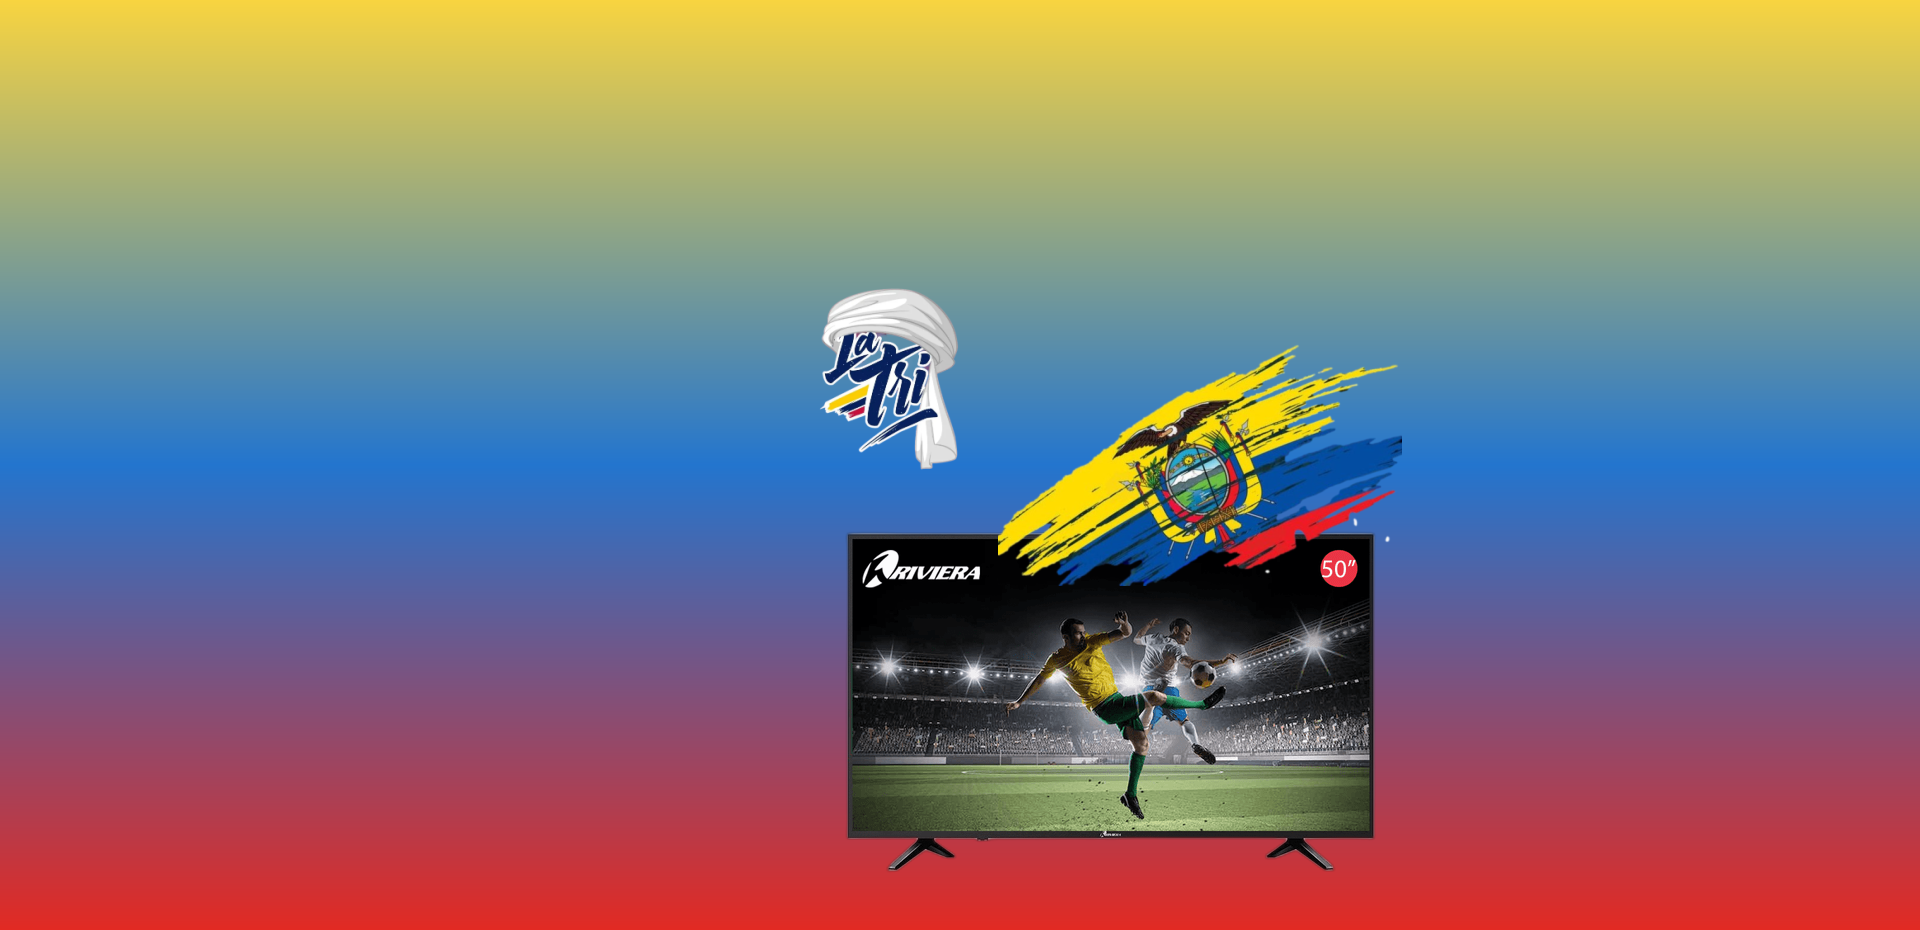
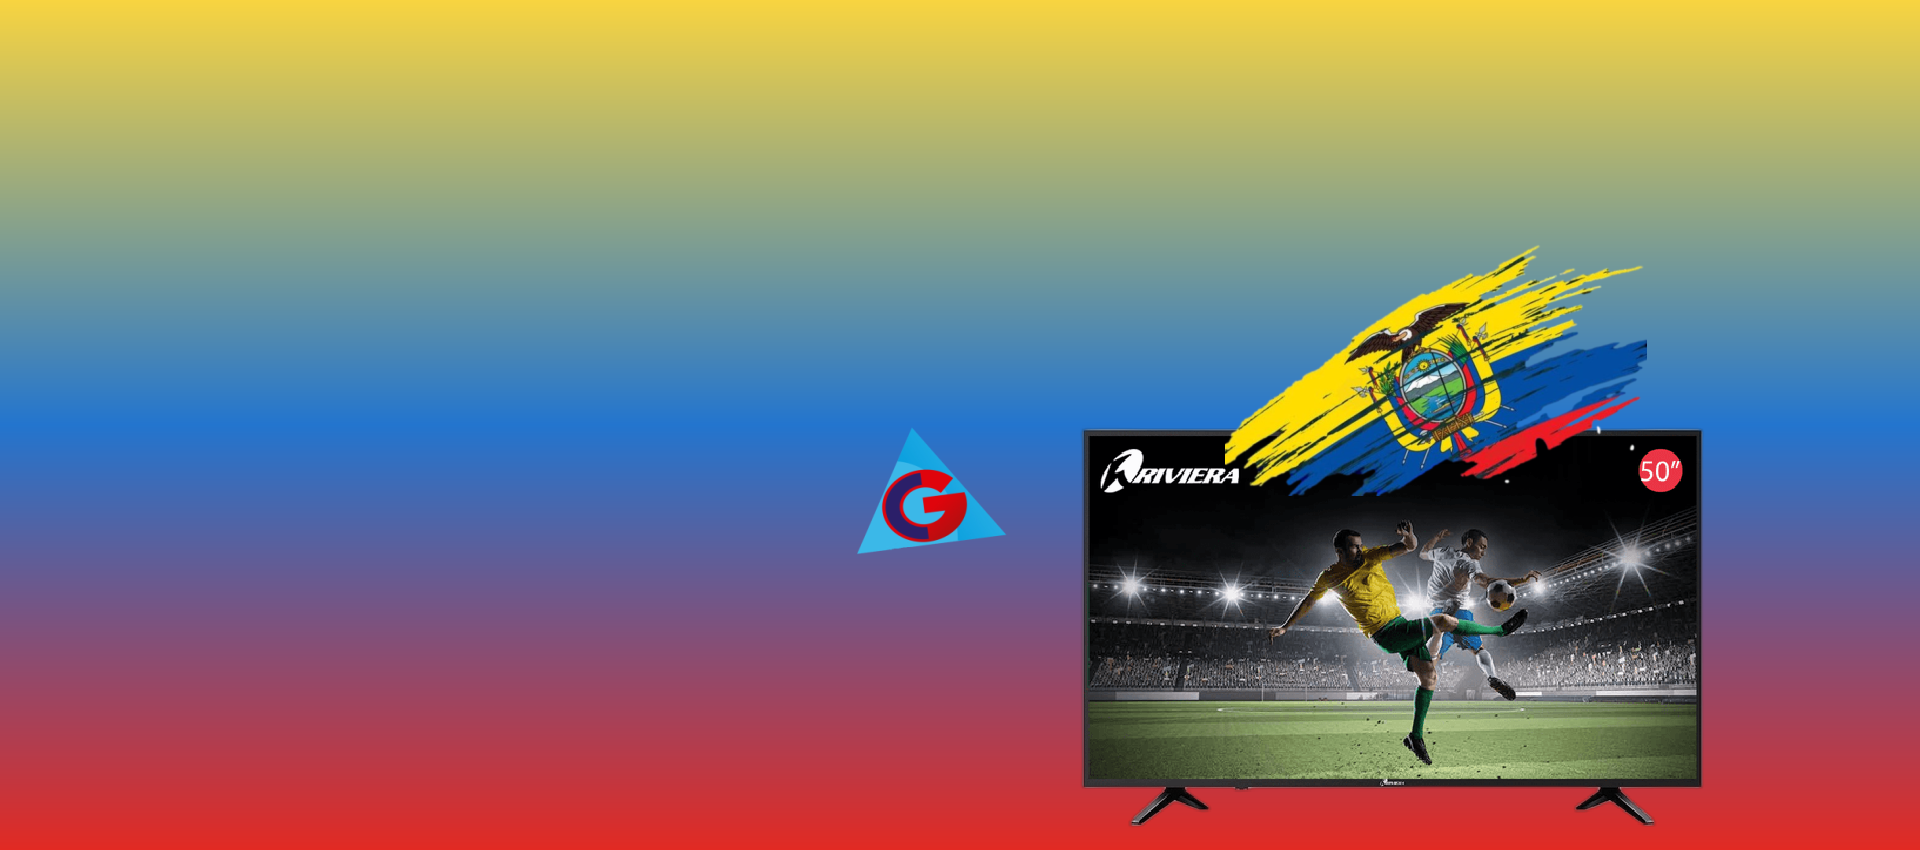
areglar img hacer grnades 1024

Changed region(s): [[0.4062, 0.2753, 0.9062, 0.9788]]

diff --git a/Assets/ecommerce/css/main.css b/Assets/ecommerce/css/main.css
@@ -269,50 +269,7 @@
 }
 
 /* ///////////////////////////// */
-/*Splide library*/
-
-@media (min-width: 1024px) {
-	.slider-one{
-		background-image: url("http://localhost/carlos/project_cg/Assets/ecommerce/images/slider-one-global.png");
-	}
-
-	.slider-two{
-		background-image: url("http://localhost/carlos/project_cg/Assets/ecommerce/images/slider-two-global.png");
-	}
-
-	.layer-container{
-		display: flex;
-		flex-direction: column;
-		align-items: flex-start;
-		justify-content: center;
-		height: 100%;
-		border: 1px solid green;
-		padding-left: 10%;
-		padding-top: 	5%;
-	}
-}
-
-@media (max-width: 1024px) {
- .slider-one{
-		background-image: url("http://localhost/carlos/project_cg/Assets/ecommerce/images/slider-one1024px.png");
-	}
-
-	.slider-two{
-		background-image: url("http://localhost/carlos/project_cg/Assets/ecommerce/images/slider-two1024px.png");
-	} 
-
-	.layer-container{
-		padding-top: 	25%;	
-		padding-left: 15%;
-	}
-}
-
-.item-splide1 {
-  height: calc(100vh - 0px);
-  background-size: cover;
-  background-repeat: no-repeat;
-  background-position: center center;
-}
+/*Splide library*/	
 
 .splide__arrows{
 	opacity: 0;
@@ -329,41 +286,76 @@
 	opacity: 1;
 }
 
+.item-splide1{
+	position: relative;
+}
+
+.item-splide1 > img{
+	width: 100%;
+}
+
+.layer-container{
+	position: absolute;
+	top: 40%;
+	left: 10%;
+}
+
 .layer-splide1{
-	margin-top: 15px;
+		margin-top: 10px;
 }
 
 
 .text01{
-	font-size: 40px;
 	font-family: 'Permanent Marker', cursive;
 	color: var(--g2);
-	font-weight: 	600;
 }
 
 .text02{
-	font-size: 18px;
+	font-weight: 700;
 	font-family: 'Poppins', sans-serif;
-	font-weight: 500;
 }
 
-@media(max-width: 768px){
-	.layer-container{
-		padding-top: 40%;
+@media (min-width: 1024px){
+	.img-slide-global{
+		display: block;
 	}
-
-
+	.img-slide-small{
+		display: none;
+	}
 
 	.text01{
-		font-size: 20px;
-	}
-
-	.marc-slider{
-		width: 200px;
+		font-size: 38px;
 	}
 
 	.text02{
+		font-size: 18px;
+	}
+}
+
+@media (max-width: 1024px){
+	.img-slide-global{
 		display: none;
+	}
+
+	.img-slide-small{
+		display: block;
+	}
+
+	.text01{
+		font-size: 25px;
+	}
+
+	.text02{
+		font-size: 15px;
+	}
+	
+	.marc-slider {
+	    width: 200px;
+	}
+
+	.layer-container{
+		top: 30%;
+		left: 8%;
 	}
 }
 

diff --git a/Views/index.php b/Views/index.php
@@ -175,6 +175,8 @@
                 <div class="splide__track">
                     <ul class="splide__list">
                         <div class="splide__slide item-splide1 slider-one">
+                            <img class="img-slide-global" src="<?= media(); ?>ecommerce/images/slider-one-global.png">
+                            <img class="img-slide-small" src="<?= media(); ?>ecommerce/images/slider-one-small.png">
                             <div class="layer-container">
                                 <div class="layer-splide1 animate__animated visible-false" data-appear="animate__fadeInDown" data-delay="0">
                                     <h2 class="text-layer text01">Lleva la fiesta a todas partes</h2>
@@ -191,6 +193,8 @@
                         </div>
 
                         <div class="splide__slide item-splide1 slider-two">
+                            <img class="img-slide-global" src="<?= media(); ?>ecommerce/images/slider-two-global.png">
+                            <img class="img-slide-small" src="<?= media(); ?>ecommerce/images/slider-two-small.png">
                             <div class="layer-container">
                                 <div class="layer-splide1 animate__animated visible-false" data-appear="animate__lightSpeedInLeft" data-delay="0">
                                     <h2 class="text-layer text01">Apoya a la Tri en 4k</h2>
